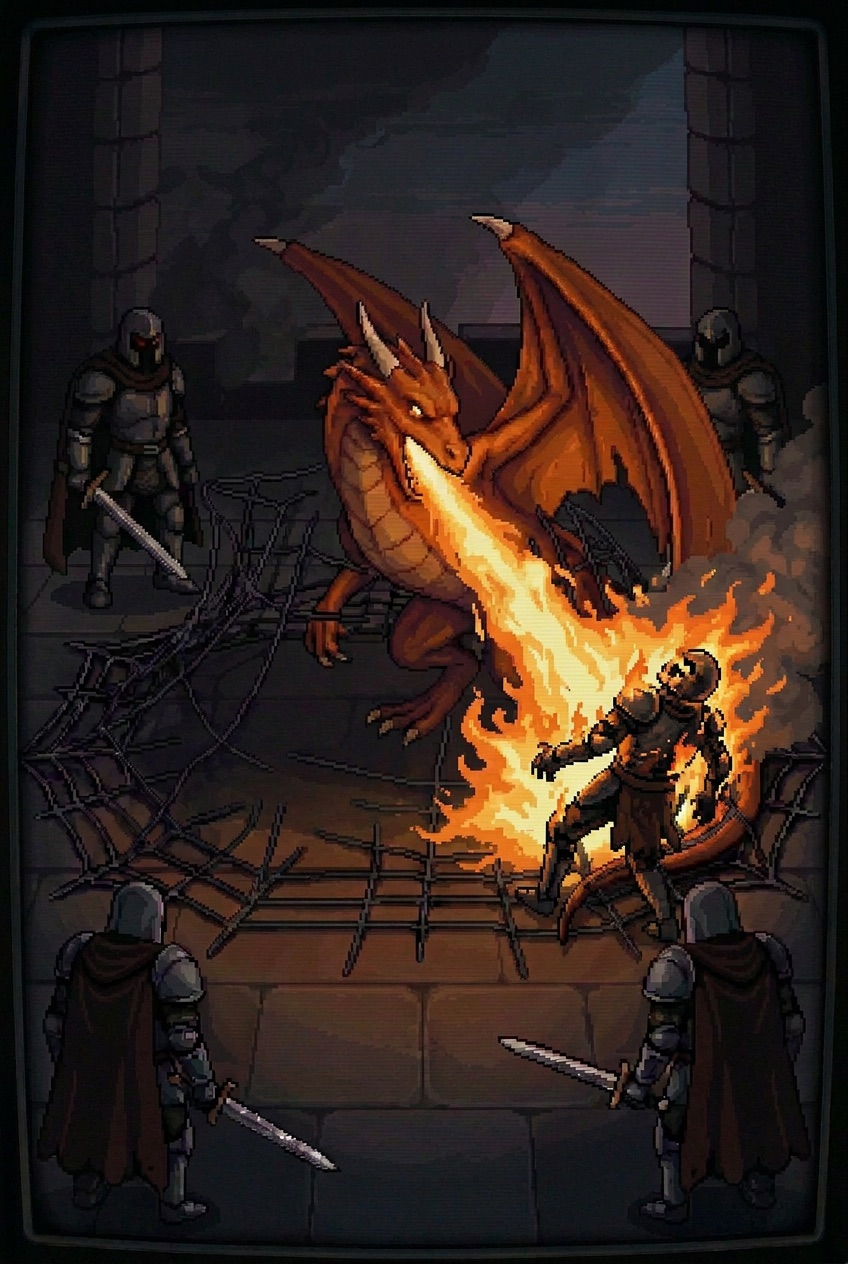
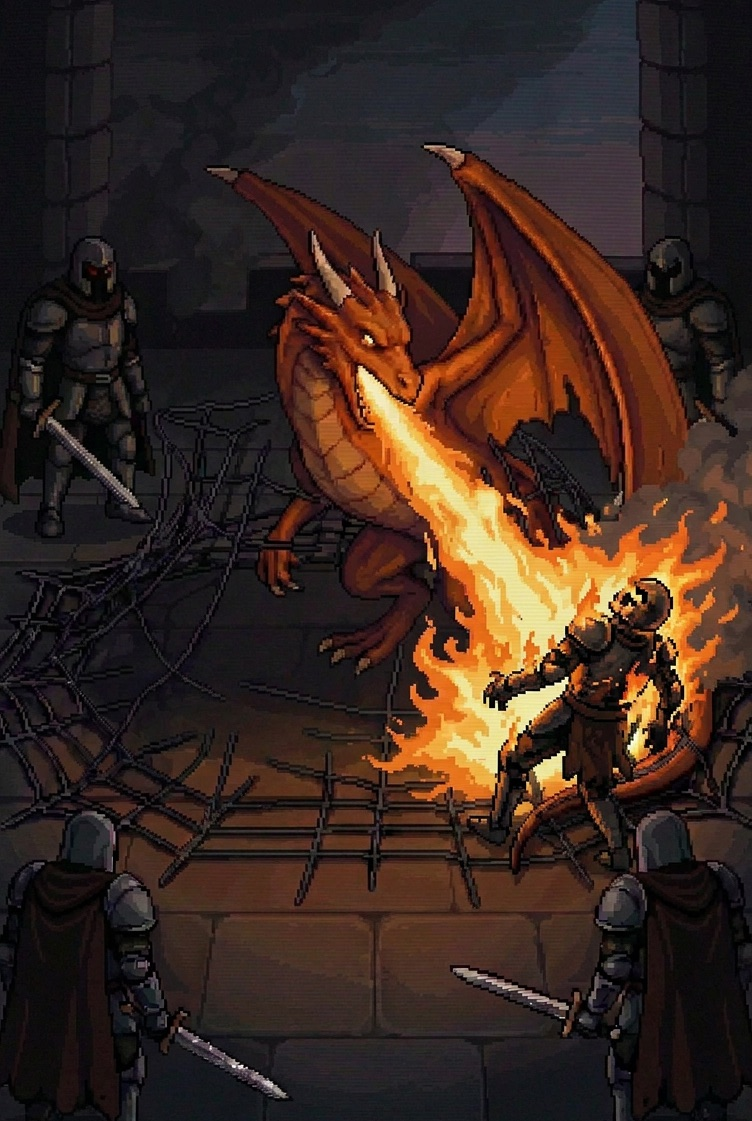
Capture: crop the TV frame off the storybook pictures; normal-size net fall
- capture1/2 cropped from the originals to drop the dark rounded frame
- The fall scene is a wide shot with sprites at game size, falling past the castle wall

diff --git a/khaleesi0900-bundle.html b/khaleesi0900-bundle.html
@@ -10553,6 +10553,48 @@ function drawCaptureOverlay() {
 }
 
 // Close-up: Syraxx and Khaleesi bound together in the net, tumbling through the dusk sky.
+// The slavers' wall seen from inside the fall: stone courses scrolling up the right side of the screen,
+// with its battlements rushing past at the start. f = frame of the fall.
+function drawFallWall(f) {
+  const wx = Math.round(width * 0.74);
+  const top = Math.round(height * 0.3 - f * 5);      // top of the wall (battlements above it)
+  const y0 = Math.max(top, 0);
+  ctx.fillStyle = '#4a3f45';
+  ctx.fillRect(wx, y0, width - wx, height - y0);
+  const rowH = 18, brickW = 34;
+  const first = Math.floor((y0 - top) / rowH);
+  for (let r = first; top + r * rowH < height; r++) {
+    const y = top + r * rowH;
+    const off = (r % 2) * (brickW / 2);
+    for (let x = wx - off; x < width; x += brickW) {
+      const n = hash2(Math.floor((x - wx + off) / brickW) + 7, r);
+      ctx.fillStyle = n < 0.33 ? '#564a50' : (n < 0.66 ? '#4f444a' : '#5c4f53');
+      ctx.fillRect(Math.max(x, wx) + 1, y + 1, Math.min(brickW - 2, x + brickW - 1 - Math.max(x, wx)), rowH - 2);
+    }
+    // a lit arrow slit now and then
+    if (r > 2 && hash2(r, 41) < 0.12) {
+      const sx = wx + 14 + Math.floor(hash2(r, 42) * Math.max(1, width - wx - 34));
+      ctx.fillStyle = '#1a1014'; ctx.fillRect(sx, y + 2, 6, rowH * 2 - 4);
+      ctx.fillStyle = 'rgba(255,170,90,0.55)'; ctx.fillRect(sx + 2, y + 4, 2, rowH * 2 - 8);
+    }
+  }
+  // battlements on top
+  if (top > -30) {
+    ctx.fillStyle = '#4a3f45';
+    for (let x = wx; x < width; x += 28) ctx.fillRect(x, top - 16, 16, 16);
+    ctx.fillStyle = '#6a5c60';
+    for (let x = wx; x < width; x += 28) ctx.fillRect(x, top - 16, 16, 3);
+  }
+  // shadow along the wall's edge, so it reads as a face turned away from the light
+  const sh = ctx.createLinearGradient(wx, 0, wx + 26, 0);
+  sh.addColorStop(0, 'rgba(0,0,0,0.45)');
+  sh.addColorStop(1, 'rgba(0,0,0,0)');
+  ctx.fillStyle = sh;
+  ctx.fillRect(wx, y0, 26, height - y0);
+  ctx.fillStyle = 'rgba(20,10,30,0.25)';   // dusk haze over the stone
+  ctx.fillRect(wx, y0, width - wx, height - y0);
+}
+
 function drawCaptureFall(f) {
   const t = f / 60;
   const g = ctx.createLinearGradient(0, 0, 0, height);
@@ -10576,31 +10618,31 @@ function drawCaptureFall(f) {
     const y = height + len - ((f * (9 + hash2(i, 11) * 10) + hash2(i, 12) * 900) % (height + len * 2));
     ctx.beginPath(); ctx.moveTo(x, y); ctx.lineTo(x, y + len); ctx.stroke();
   }
-  // the two of them, slowly turning
-  const s = Math.min(width, height) / 175;
-  const cx = width / 2 + Math.sin(t * 0.9) * 10;
-  const cy = height * 0.44 + Math.sin(t * 1.3) * 8;
-  const rot = Math.sin(t * 0.7) * 0.32 + 0.12;
-  const glow = ctx.createRadialGradient(cx, cy - 10 * s, 5, cx, cy - 10 * s, 60 * s);
-  glow.addColorStop(0, 'rgba(255,200,150,0.30)');
+  // the inside face of the slavers' wall, rushing up past them (its battlements pass at the start)
+  drawFallWall(f);
+  // the two of them at their normal size, tumbling slowly down the screen
+  const k0 = Math.min(1, f / CAP_FALL_FRAMES);
+  const cx = width * 0.42 + Math.sin(t * 0.9) * 14;
+  const cy = height * (0.2 + 0.32 * k0) + Math.sin(t * 1.3) * 6;
+  const rot = Math.sin(t * 0.7) * 0.4 + 0.15;
+  const glow = ctx.createRadialGradient(cx, cy - 12, 4, cx, cy - 12, 80);
+  glow.addColorStop(0, 'rgba(255,200,150,0.28)');
   glow.addColorStop(1, 'rgba(255,200,150,0)');
   ctx.fillStyle = glow;
   ctx.fillRect(0, 0, width, height);
   ctx.save();
   ctx.translate(cx, cy);
   ctx.rotate(rot);
-  ctx.scale(s, s);
   dragon.wingState = 0.12 + Math.abs(Math.sin(f * 0.07)) * 0.08;   // wings pinned, barely moving
   drawDragon(0, 0, -0.15);
-  // Khaleesi reaches down to him: a small hand on his neck
-  ctx.fillStyle = '#f8c291';
-  ctx.fillRect(4, -14 + Math.sin(f * 0.05) * 0.6, 3, 2);
-  drawSquareNet(0, -8, 98, 0, 0.5, 0.42);
+  ctx.globalAlpha = 0.8;                // the game's net wrapped around them, a little see-through so they still read
+  drawSquareNet(3, -14, 92, 0, 0.75);
+  ctx.globalAlpha = 1;
   ctx.restore();
   // a tear-shaped heart rising between them
   if (f > 70) {
     const k = ((f - 70) % 150) / 150;
-    const hx = cx + 6 * s, hy = cy - 34 * s - k * 50;
+    const hx = cx + 4, hy = cy - 40 - k * 40;
     ctx.save();
     ctx.globalAlpha = Math.sin(k * Math.PI) * 0.85;
     ctx.fillStyle = '#ff6b8a';

diff --git a/src/js/render-prologue.js b/src/js/render-prologue.js
@@ -917,6 +917,48 @@ function drawCaptureOverlay() {
 }
 
 // Close-up: Syraxx and Khaleesi bound together in the net, tumbling through the dusk sky.
+// The slavers' wall seen from inside the fall: stone courses scrolling up the right side of the screen,
+// with its battlements rushing past at the start. f = frame of the fall.
+function drawFallWall(f) {
+  const wx = Math.round(width * 0.74);
+  const top = Math.round(height * 0.3 - f * 5);      // top of the wall (battlements above it)
+  const y0 = Math.max(top, 0);
+  ctx.fillStyle = '#4a3f45';
+  ctx.fillRect(wx, y0, width - wx, height - y0);
+  const rowH = 18, brickW = 34;
+  const first = Math.floor((y0 - top) / rowH);
+  for (let r = first; top + r * rowH < height; r++) {
+    const y = top + r * rowH;
+    const off = (r % 2) * (brickW / 2);
+    for (let x = wx - off; x < width; x += brickW) {
+      const n = hash2(Math.floor((x - wx + off) / brickW) + 7, r);
+      ctx.fillStyle = n < 0.33 ? '#564a50' : (n < 0.66 ? '#4f444a' : '#5c4f53');
+      ctx.fillRect(Math.max(x, wx) + 1, y + 1, Math.min(brickW - 2, x + brickW - 1 - Math.max(x, wx)), rowH - 2);
+    }
+    // a lit arrow slit now and then
+    if (r > 2 && hash2(r, 41) < 0.12) {
+      const sx = wx + 14 + Math.floor(hash2(r, 42) * Math.max(1, width - wx - 34));
+      ctx.fillStyle = '#1a1014'; ctx.fillRect(sx, y + 2, 6, rowH * 2 - 4);
+      ctx.fillStyle = 'rgba(255,170,90,0.55)'; ctx.fillRect(sx + 2, y + 4, 2, rowH * 2 - 8);
+    }
+  }
+  // battlements on top
+  if (top > -30) {
+    ctx.fillStyle = '#4a3f45';
+    for (let x = wx; x < width; x += 28) ctx.fillRect(x, top - 16, 16, 16);
+    ctx.fillStyle = '#6a5c60';
+    for (let x = wx; x < width; x += 28) ctx.fillRect(x, top - 16, 16, 3);
+  }
+  // shadow along the wall's edge, so it reads as a face turned away from the light
+  const sh = ctx.createLinearGradient(wx, 0, wx + 26, 0);
+  sh.addColorStop(0, 'rgba(0,0,0,0.45)');
+  sh.addColorStop(1, 'rgba(0,0,0,0)');
+  ctx.fillStyle = sh;
+  ctx.fillRect(wx, y0, 26, height - y0);
+  ctx.fillStyle = 'rgba(20,10,30,0.25)';   // dusk haze over the stone
+  ctx.fillRect(wx, y0, width - wx, height - y0);
+}
+
 function drawCaptureFall(f) {
   const t = f / 60;
   const g = ctx.createLinearGradient(0, 0, 0, height);
@@ -940,31 +982,31 @@ function drawCaptureFall(f) {
     const y = height + len - ((f * (9 + hash2(i, 11) * 10) + hash2(i, 12) * 900) % (height + len * 2));
     ctx.beginPath(); ctx.moveTo(x, y); ctx.lineTo(x, y + len); ctx.stroke();
   }
-  // the two of them, slowly turning
-  const s = Math.min(width, height) / 175;
-  const cx = width / 2 + Math.sin(t * 0.9) * 10;
-  const cy = height * 0.44 + Math.sin(t * 1.3) * 8;
-  const rot = Math.sin(t * 0.7) * 0.32 + 0.12;
-  const glow = ctx.createRadialGradient(cx, cy - 10 * s, 5, cx, cy - 10 * s, 60 * s);
-  glow.addColorStop(0, 'rgba(255,200,150,0.30)');
+  // the inside face of the slavers' wall, rushing up past them (its battlements pass at the start)
+  drawFallWall(f);
+  // the two of them at their normal size, tumbling slowly down the screen
+  const k0 = Math.min(1, f / CAP_FALL_FRAMES);
+  const cx = width * 0.42 + Math.sin(t * 0.9) * 14;
+  const cy = height * (0.2 + 0.32 * k0) + Math.sin(t * 1.3) * 6;
+  const rot = Math.sin(t * 0.7) * 0.4 + 0.15;
+  const glow = ctx.createRadialGradient(cx, cy - 12, 4, cx, cy - 12, 80);
+  glow.addColorStop(0, 'rgba(255,200,150,0.28)');
   glow.addColorStop(1, 'rgba(255,200,150,0)');
   ctx.fillStyle = glow;
   ctx.fillRect(0, 0, width, height);
   ctx.save();
   ctx.translate(cx, cy);
   ctx.rotate(rot);
-  ctx.scale(s, s);
   dragon.wingState = 0.12 + Math.abs(Math.sin(f * 0.07)) * 0.08;   // wings pinned, barely moving
   drawDragon(0, 0, -0.15);
-  // Khaleesi reaches down to him: a small hand on his neck
-  ctx.fillStyle = '#f8c291';
-  ctx.fillRect(4, -14 + Math.sin(f * 0.05) * 0.6, 3, 2);
-  drawSquareNet(0, -8, 98, 0, 0.5, 0.42);
+  ctx.globalAlpha = 0.8;                // the game's net wrapped around them, a little see-through so they still read
+  drawSquareNet(3, -14, 92, 0, 0.75);
+  ctx.globalAlpha = 1;
   ctx.restore();
   // a tear-shaped heart rising between them
   if (f > 70) {
     const k = ((f - 70) % 150) / 150;
-    const hx = cx + 6 * s, hy = cy - 34 * s - k * 50;
+    const hx = cx + 4, hy = cy - 40 - k * 40;
     ctx.save();
     ctx.globalAlpha = Math.sin(k * Math.PI) * 0.85;
     ctx.fillStyle = '#ff6b8a';

diff --git a/CLAUDE.md b/CLAUDE.md
@@ -7,7 +7,7 @@ Single-page canvas game. Open `index.html` directly (double-click / `file:///` w
 - `index.html` — HTML shell: `<audio>` tags, HUD, buttons, modals; loads the CSS and JS below.
 - `src/style.css` — all styles. Reference images from here as `../assets/images/<file>`.
 - `src/js/` — game code (see below).
-- `assets/images/` — only the images the game loads, plus `icon.png`. Big paintings and portraits are JPEGs: storybook pictures (`capture1/2`, `dance1/2`) at 848×1264, noble portraits (`noble1`–`noble7`) at 720px on the long side, quality 82–85, made with macOS `sips` (e.g. `sips -Z 512 -s format jpeg -s formatOptions 85 in.png --out out.jpg`). The original PNGs are in `archive/source-art/`.
+- `assets/images/` — only the images the game loads, plus `icon.png`. Big paintings and portraits are JPEGs: storybook pictures (`dance1/2` at 848×1264; `capture1/2` cropped to 752×1121 to drop the TV-style frame in the originals), noble portraits (`noble1`–`noble7`) at 720px on the long side, quality 82–85, made with macOS `sips` (e.g. `sips -Z 512 -s format jpeg -s formatOptions 85 in.png --out out.jpg`). The original PNGs are in `archive/source-art/`.
 - `assets/audio/` — only the music/SFX the game loads (MP3/WAV/OGG/FLAC), plus the CC0 license note for the wing flap.
 - `khaleesi0900.html` — untouched pre-refactor backup.
 - `khaleesi0900-bundle.html` — generated single-file build. Don't edit it by hand.
@@ -54,7 +54,7 @@ Opening screen (sunny; Khaleesi invites Syraxx to fly) → start menu → Meadow
 
 - **Prologue (prologue.js):** sunny daytime, rolling ground (`proTerrainH()` / `proGroundY()`, up to `PRO_TERRAIN_MAX` 100px above the flat ground line, lower in the village; sheep, people, huts and the lane follow it), opening-screen music (`uiMusic`) until the net drags them over the wall, then the beheading music (`captureSadMusic()`) for the fall, the story images and the "captured" message, fire disabled (the FIRE button is greyed out), Khaleesi rides on Syraxx's back with no invincibility. Hitting the rolling ground still costs a heart; the top of the screen just stops you. Dying restarts the same prologue level.
   - **Meadow:** sheep, shepherds, birds, maypole dancers. At 66s Khaleesi asks for a sheep; fly low over one to grab it (`PRO_SNATCH_DX`/`DY`). She drops a gold pouch to the nearest shepherd. Eating the sheep refills any lost hearts. The meadow ends after 100s, once the sheep has been eaten, then fades into the village.
-  - **Village:** solid thatched huts (touching one costs a heart), crowds that wave at the dragon, children, hens, lute players. At 32s the **spring festival** arrives (`proSpawnFestival()`): a great thatched hall beside a town square with the maypole, bunting and dancing townsfolk, on levelled ground (`proFlats`). Khaleesi suggests landing on the roof and a LAND HERE arrow appears. Touching the hall lands Syraxx on the ridge (no damage); the world stops, the view glides so the hall and square fit, they sing with the crowd, and the FIRE button turns into a blue SING button (`festSing()`: a hop and flap, a burst of notes and hearts, the crowd jumps, a random pentatonic chime from `playSingChime()`), then the storybook shows `dance1.jpg` and `dance2.jpg` (tap to advance), then Khaleesi says they should journey on and Syraxx takes off. The level clock pauses from the festival's arrival until take-off. Missing the roof brings the festival round again. At 95s the slavers' castle rolls in and the capture plays with no player control: the ballista fires a big square net (`drawSquareNet()`) that wraps Syraxx and Khaleesi together, the rope drags them over the wall, then a close-up shows them tumbling through the sky bound in the net (`drawCaptureFall()`), then `assets/images/capture1.png` (Khaleesi cut out of the net and dragged away) and `capture2.png` (Syraxx wakes and escapes), about 4.5s each (`CAP_IMG_FRAMES`) with captions; a tap moves to the next image. The HUD and controls are hidden from the close-up on (`.cinematic`). It ends on the old splash text (`fullStoryText`), then the level 1 intro dialogue.
+  - **Village:** solid thatched huts (touching one costs a heart), crowds that wave at the dragon, children, hens, lute players. At 32s the **spring festival** arrives (`proSpawnFestival()`): a great thatched hall beside a town square with the maypole, bunting and dancing townsfolk, on levelled ground (`proFlats`). Khaleesi suggests landing on the roof and a LAND HERE arrow appears. Touching the hall lands Syraxx on the ridge (no damage); the world stops, the view glides so the hall and square fit, they sing with the crowd, and the FIRE button turns into a blue SING button (`festSing()`: a hop and flap, a burst of notes and hearts, the crowd jumps, a random pentatonic chime from `playSingChime()`), then the storybook shows `dance1.jpg` and `dance2.jpg` (tap to advance), then Khaleesi says they should journey on and Syraxx takes off. The level clock pauses from the festival's arrival until take-off. Missing the roof brings the festival round again. At 95s the slavers' castle rolls in and the capture plays with no player control: the ballista fires a big square net (`drawSquareNet()`) that wraps Syraxx and Khaleesi together, the rope drags them over the wall, then a wide shot shows them at normal sprite size tumbling down past the inside of the castle wall, bound in the net (`drawCaptureFall()`, wall from `drawFallWall()`), then `assets/images/capture1.png` (Khaleesi cut out of the net and dragged away) and `capture2.png` (Syraxx wakes and escapes), about 4.5s each (`CAP_IMG_FRAMES`) with captions; a tap moves to the next image. The HUD and controls are hidden from the close-up on (`.cinematic`). It ends on the old splash text (`fullStoryText`), then the level 1 intro dialogue.
 - **Music:** levels 2 and 5 play the beheading music (`cutsceneMusic`) instead of the normal level music (`updateMusicState()`, audio.js).
 - **Small knights** appear from L2 (25% of towers in L2-3, 40% in L4, 60% in L5) and never share a tower with peasants. They need `SK_BURN_FRAMES` (120) of unbroken fire contact to die.
 - **L4:** level 3 rules with more small knights. Emerald sky, violet torches, deep red archways.
